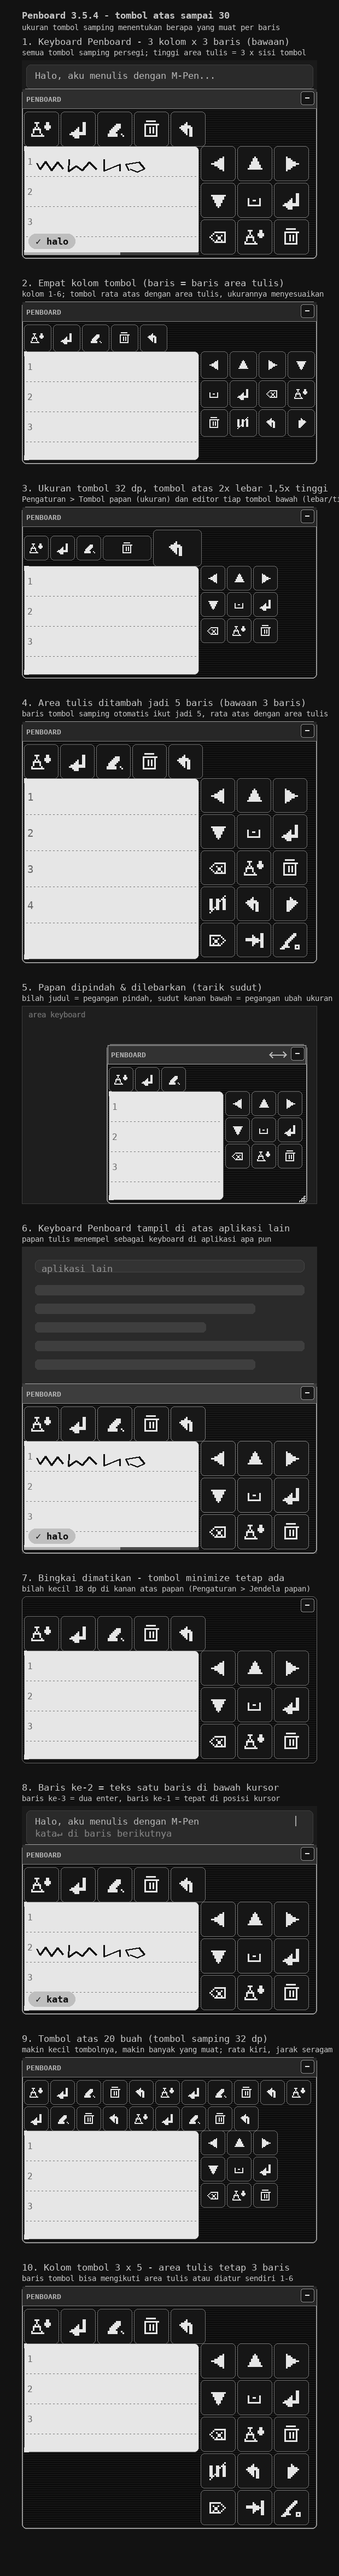
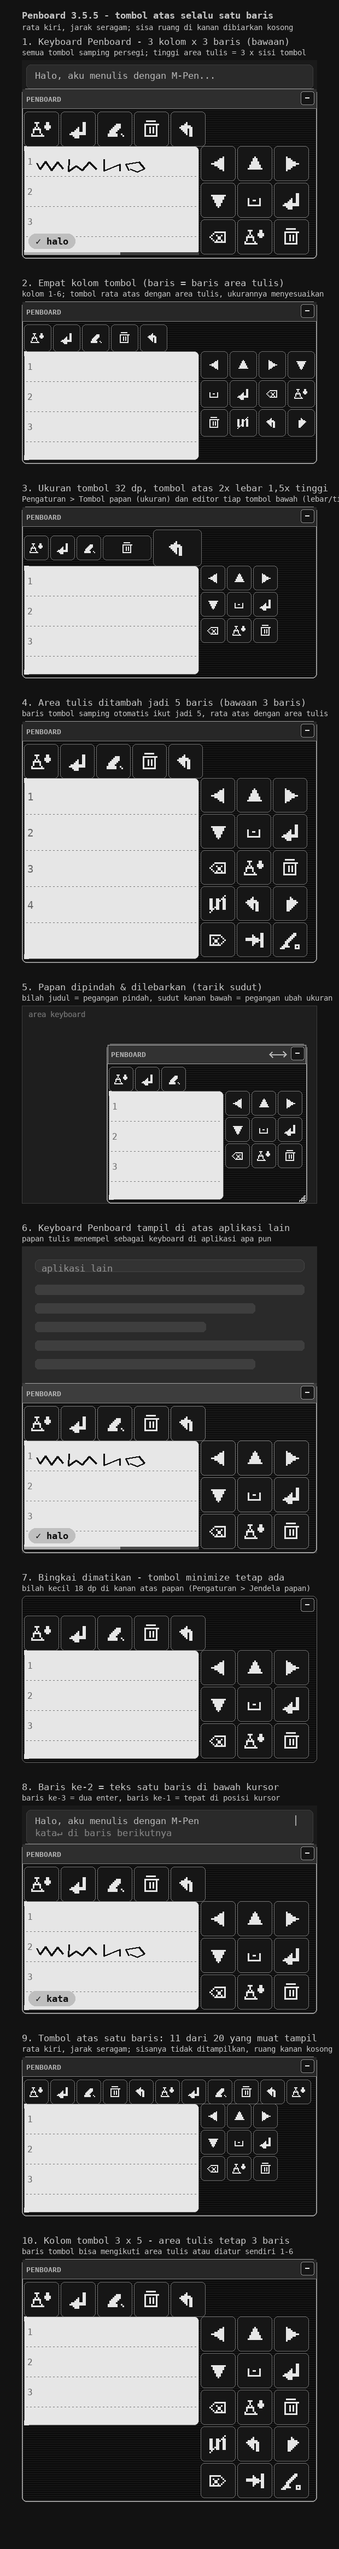
3.5.5: bilah tombol atas selalu satu baris, tombol yang tidak muat tidak ditampilkan

diff --git a/app/src/test/java/dev/retrobit/penboard/util/GridMathTest.kt b/app/src/test/java/dev/retrobit/penboard/util/GridMathTest.kt
@@ -174,25 +174,27 @@ class GridMathTest {
     }
 
     @Test
-    fun `tombol bawah dibungkus sesuai lebar masing-masing`() {
-        // Lima tombol persegi 100 px + jarak 10 px: muat satu baris di papan 600 px.
+    fun `tombol atas selalu satu baris, sisanya tidak ditampilkan`() {
+        // Lima tombol persegi 100 px + jarak 10 px muat di papan 600 px.
         assertEquals(
             listOf(listOf(0, 1, 2, 3, 4)),
             GridMath.bottomRowIndexes(5, 100, List(5) { 1f }, 600, 10)
         )
-        // Papan sempit 250 px: hanya dua tombol per baris.
+        // Papan sempit 250 px: tiga tombol pertama tampil, dua sisanya tidak
+        // (tidak ada baris kedua — sisa ruang dibiarkan kosong).
         assertEquals(
-            listOf(listOf(0, 1), listOf(2, 3), listOf(4)),
+            listOf(listOf(0, 1, 2)),
             GridMath.bottomRowIndexes(5, 100, List(5) { 1f }, 250, 10)
         )
-        // Tombol berlebar 2x tidak lagi muat di baris pertama, jadi pindah baris.
+        // Tombol berlebar 2x: hanya dua yang muat, tombol ketiga tidak ditampilkan.
         assertEquals(
-            listOf(listOf(0, 1), listOf(2)),
+            listOf(listOf(0, 1)),
             GridMath.bottomRowIndexes(3, 100, listOf(1f, 1f, 2f), 250, 10)
         )
-        // Tanpa tombol: tidak ada baris sama sekali.
+        // Tanpa tombol: tidak ada baris sama sekali; selain itu selalu tepat 1 baris.
         assertEquals(0, GridMath.bottomRows(0, 100, emptyList(), 600, 10))
-        assertEquals(2, GridMath.bottomRows(4, 100, List(4) { 1f }, 250, 10))
+        assertEquals(1, GridMath.bottomRows(4, 100, List(4) { 1f }, 250, 10))
+        assertEquals(1, GridMath.bottomRows(20, 60, List(20) { 1f }, 400, 10))
     }
 
     @Test
@@ -301,17 +303,20 @@ class GridMathTest {
         assertEquals(30, PenboardConfig.BOTTOM_SLOTS)
         assertTrue(PenboardConfig.MAX_BOTTOM_KEYS > 20)
 
-        // Tombol samping 32 dp (33 px pada gambar pratinjau) di isi panel 532 px:
-        // lebih dari 10 tombol per baris, jadi 20 tombol cukup dua baris.
+        // Tombol samping 32 dp di isi panel 532 px: satu baris memuat 11 tombol,
+        // jadi dari 20 tombol yang diminta hanya 11 yang tampil (tanpa baris kedua).
         val usable = 532
         val cell = 44
         val spacing = 4
         val perRow = (usable + spacing) / (cell + spacing)
         assertTrue("hanya $perRow per baris", perRow >= 10)
         val rows = GridMath.bottomRowIndexes(20, cell, List(20) { 1f }, usable, spacing)
-        assertEquals(2, rows.size)
-        assertEquals(20, rows.sumOf { it.size })
+        assertEquals(1, rows.size)
+        assertEquals(perRow, rows.first().size)
         assertEquals(0, rows.first().first())
+
+        // Semua tombol yang tampil ada di baris yang sama dan berurutan dari kiri.
+        assertEquals((0 until perRow).toList(), rows.first())
 
         // Semua tombol bawaan benar-benar bekerja (bukan TEXT kosong).
         PenboardConfig.defaultBottomKeys().forEach { key ->

diff --git a/app/src/main/java/dev/retrobit/penboard/MainActivity.kt b/app/src/main/java/dev/retrobit/penboard/MainActivity.kt
@@ -348,6 +348,7 @@ class MainActivity : AppCompatActivity() {
         // tinggi area tulis supaya keduanya sejajar di atas maupun di bawah.
         val square = Ui.statusText(card, getString(R.string.preview_square_wait))
         val align = Ui.statusText(card, getString(R.string.preview_align_wait))
+        val bottom = Ui.statusText(card, getString(R.string.preview_bottom_wait))
         Ui.body(card, getString(R.string.preview_cell_style, store.config.iconStyle.label))
         Ui.body(
             card,
@@ -357,7 +358,7 @@ class MainActivity : AppCompatActivity() {
                 getString(R.string.preview_line_off)
             }
         )
-        panel.root.post { updatePreviewStatus(square, align, panel) }
+        panel.root.post { updatePreviewStatus(square, align, bottom, panel) }
     }
 
     /** Ubah ukuran papan dari tarikan sudut di pratinjau (lebar dan tinggi). */
@@ -401,7 +402,12 @@ class MainActivity : AppCompatActivity() {
     }
 
     /** Tampilkan hasil pengukuran pratinjau: tombol persegi & kolom tombol sejajar. */
-    private fun updatePreviewStatus(square: TextView, align: TextView, panel: BoardPanel) {
+    private fun updatePreviewStatus(
+        square: TextView,
+        align: TextView,
+        bottom: TextView,
+        panel: BoardPanel
+    ) {
         val cell = panel.cellPx
         val columns = store.config.gridColumns
         val rows = store.config.effectiveGridRows
@@ -418,6 +424,14 @@ class MainActivity : AppCompatActivity() {
             gridRows > 0 && gridRows == boardRows ->
                 getString(R.string.preview_align_ok, gridRows, boardRows)
             else -> getString(R.string.preview_align_bad, gridRows, boardRows)
+        }
+        // Bilah atas selalu satu baris: beri tahu bila ada tombol yang tidak muat.
+        val shown = panel.bottomShownCount
+        val requested = panel.bottomRequestedCount
+        bottom.text = when {
+            requested <= 0 -> getString(R.string.preview_bottom_none)
+            shown >= requested -> getString(R.string.preview_bottom_ok, shown)
+            else -> getString(R.string.preview_bottom_partial, shown, requested)
         }
     }
 
@@ -766,6 +780,7 @@ class MainActivity : AppCompatActivity() {
             PenboardConfig.MAX_BOTTOM_KEYS,
             getString(R.string.unit_keys)
         ) { value -> store.update { it.copy(bottomButtonCount = value) } }
+        Ui.body(card, getString(R.string.bottom_single_row_note))
 
         Ui.divider(card)
         // Hanya tampilkan baris yang mungkin dipakai: tombol yang aktif, atau 8 bawaan

diff --git a/app/src/main/java/dev/retrobit/penboard/util/GridMath.kt b/app/src/main/java/dev/retrobit/penboard/util/GridMath.kt
@@ -262,10 +262,11 @@ object GridMath {
     /**
      * Susunan tombol bawah: indeks tombol untuk setiap baris.
      *
-     * Lebar tiap tombol bisa berbeda ([widthMultiplier]), jadi pembungkusannya dihitung
-     * berurutan: tombol berikutnya pindah ke baris baru begitu lebar papan tulis tidak
-     * cukup lagi. Hasilnya dipakai bersama oleh penghitungan tinggi panel dan pemasangan
-     * tombol, sehingga keduanya tidak pernah berbeda (tidak ada tombol yang terpotong).
+     * Tombol atas selalu **satu baris**: tombol dipasang berurutan dari kiri, dan begitu
+     * tombol berikutnya tidak muat lagi di lebar papan, tombol itu (dan sisanya) **tidak
+     * ditampilkan**. Sisa ruang di kanan dibiarkan kosong — tidak ada pembungkusan ke
+     * baris kedua. Hasilnya dipakai bersama oleh penghitungan tinggi panel dan pemasangan
+     * tombol, jadi keduanya tidak pernah berbeda.
      */
     fun bottomRowIndexes(
         count: Int,
@@ -275,26 +276,24 @@ object GridMath {
         spacingPx: Int = 0
     ): List<List<Int>> {
         if (count <= 0) return emptyList()
-        val rows = mutableListOf<MutableList<Int>>()
-        var current = mutableListOf<Int>()
+        val visible = mutableListOf<Int>()
         var used = 0
         for (index in 0 until count) {
             val width = buttonWidthPx(cellPx, widthMultipliers.getOrElse(index) { 1f })
-            val needed = if (current.isEmpty()) width else used + spacingPx + width
-            if (current.isNotEmpty() && needed > availableWidthPx) {
-                rows.add(current)
-                current = mutableListOf()
-                used = width
-            } else {
-                used = needed
-            }
-            current.add(index)
+            val needed = if (visible.isEmpty()) width else used + spacingPx + width
+            // Tombol pertama selalu tampil (walau lebih lebar dari panel) supaya tidak
+            // ada baris yang kosong sama sekali.
+            if (visible.isNotEmpty() && needed > availableWidthPx) break
+            used = needed
+            visible.add(index)
         }
-        if (current.isNotEmpty()) rows.add(current)
-        return rows
+        return listOf(visible)
     }
 
-    /** Jumlah baris tombol bawah untuk [count] tombol dengan lebar masing-masing. */
+    /**
+     * Jumlah baris tombol atas untuk [count] tombol: 1 bila ada tombol, 0 bila tidak.
+     * (Bilah atas tidak pernah dibungkus ke baris kedua.)
+     */
     fun bottomRows(
         count: Int,
         cellPx: Int,

diff --git a/app/src/main/java/dev/retrobit/penboard/ui/BoardPanel.kt b/app/src/main/java/dev/retrobit/penboard/ui/BoardPanel.kt
@@ -91,6 +91,12 @@ class BoardPanel(private val context: Context) {
     var cellPx: Int = 0
         private set
 
+    /** Jumlah tombol atas yang diminta pengaturan, dan yang benar-benar tampil. */
+    var bottomRequestedCount: Int = 0
+        private set
+    var bottomShownCount: Int = 0
+        private set
+
     /** Ukuran papan yang sedang dipakai (px). */
     var panelWidthPx: Int = 0
         private set
@@ -302,6 +308,9 @@ class BoardPanel(private val context: Context) {
         fun layoutBottom() {
             bottomRows = GridMath.bottomRowIndexes(bottomCount, barCell(), bottomWidths, usableWidth, spacing)
             bottomRowHeights = GridMath.bottomRowHeights(bottomRows, barCell(), bottomHeightMultipliers)
+            // Bilah atas hanya satu baris: tombol yang tidak muat tidak ditampilkan.
+            bottomRequestedCount = bottomCount
+            bottomShownCount = bottomRows.firstOrNull()?.size ?: 0
         }
 
         // Dua putaran: ukuran tombol menentukan tinggi bilah bawah, dan tinggi bilah bawah

diff --git a/tools/render_preview.py b/tools/render_preview.py
@@ -221,25 +221,23 @@ def button_width_px(cell_px, width_multiplier):
 
 
 def bottom_row_indexes(count, cell_px, widths, available_width_px, spacing_px=0):
-    """Salinan GridMath.bottomRowIndexes: tombol bawah dibungkus sesuai lebarnya."""
+    """Salinan GridMath.bottomRowIndexes: tombol atas selalu SATU baris.
+
+    Tombol dipasang berurutan dari kiri; begitu tidak muat lagi, sisanya tidak
+    ditampilkan (sisa ruang di kanan dibiarkan kosong).
+    """
     if count <= 0:
         return []
-    rows = []
-    current = []
+    visible = []
     used = 0
     for index in range(count):
         width = button_width_px(cell_px, widths[index] if index < len(widths) else 1.0)
-        needed = width if not current else used + spacing_px + width
-        if current and needed > available_width_px:
-            rows.append(current)
-            current = []
-            used = width
-        else:
-            used = needed
-        current.append(index)
-    if current:
-        rows.append(current)
-    return rows
+        needed = width if not visible else used + spacing_px + width
+        if visible and needed > available_width_px:
+            break
+        used = needed
+        visible.append(index)
+    return [visible]
 
 
 def alpha(color, a):
@@ -515,7 +513,7 @@ def main():
     longer = draw_panel(5, DEFAULT_KEYS)
     ime = draw_panel(3, DEFAULT_KEYS, flash="\u2713 halo", pending=0.55)
     second_line = draw_panel(3, DEFAULT_KEYS, flash="\u2713 kata", ink_line=1)
-    # 20 tombol atas: muat karena tombol sampingnya kecil (32 dp).
+    # 20 tombol atas diminta, tetapi bilah atas hanya satu baris: yang muat 11.
     many_bottom = draw_panel(3, DEFAULT_KEYS, cell_dp=32,
                              bottom_keys=(BOTTOM_KEYS * 4)[:20])
     five_rows = draw_panel(3, DEFAULT_KEYS, rows=5)
@@ -548,8 +546,8 @@ def main():
         ("8. Baris ke-2 = teks satu baris di bawah kursor",
          "baris ke-3 = dua enter, baris ke-1 = tepat di posisi kursor",
          ("field2", second_line)),
-        ("9. Tombol atas 20 buah (tombol samping 32 dp)",
-         "makin kecil tombolnya, makin banyak yang muat; rata kiri, jarak seragam",
+        ("9. Tombol atas satu baris: 11 dari 20 yang muat tampil",
+         "rata kiri, jarak seragam; sisanya tidak ditampilkan, ruang kanan kosong",
          ("plain", many_bottom)),
         ("10. Kolom tombol 3 x 5 - area tulis tetap 3 baris",
          "baris tombol bisa mengikuti area tulis atau diatur sendiri 1-6",
@@ -569,9 +567,9 @@ def main():
             canvas_heights.append(item.height + extra)
     canvas = Image.new("RGBA", (width, sum(canvas_heights) + 40), alpha((0x12, 0x12, 0x12), 255))
     draw = ImageDraw.Draw(canvas)
-    draw.text((pad, 18), "Penboard 3.5.4 - tombol atas sampai 30",
+    draw.text((pad, 18), "Penboard 3.5.5 - tombol atas selalu satu baris",
               font=ImageFont.truetype(FONT_BOLD, 17), fill=alpha(COL_ACCENT, 255))
-    draw.text((pad, 42), "ukuran tombol samping menentukan berapa yang muat per baris",
+    draw.text((pad, 42), "rata kiri, jarak seragam; sisa ruang di kanan dibiarkan kosong",
               font=SMALL_FONT, fill=alpha(COL_ACCENT, 150))
 
     y = header

diff --git a/README.md b/README.md
@@ -2,15 +2,32 @@
 
 Papan tulis stylus bergaya **HiWrite** untuk Android, dengan tema **retro cyberpunk grayscale ePaper**. Tulis dengan Huawei M-Pen (atau stylus apa pun) di papan tulis, lalu tulisan itu berubah menjadi teks dan langsung masuk ke kolom isian aplikasi yang sedang dipakai. Bukan keyboard QWERTY: papan tulisnya lebar di kiri, tombolnya berupa **ikon** dan tersusun rapi 3 kolom di kanan.
 
-Versi terbaru: **3.5.4** (lihat [Releases](https://github.com/retrobit-dev/RetroBit-Penboard/releases) untuk berkas APK).
+Versi terbaru: **3.5.5** (lihat [Releases](https://github.com/retrobit-dev/RetroBit-Penboard/releases) untuk berkas APK).
+
+## Yang baru di 3.5.5
+
+- **Bilah tombol atas selalu satu baris.** Tombol dipasang berurutan dari kiri dengan jarak
+  yang sama seperti tombol samping; begitu tombol berikutnya tidak muat, tombol itu dan
+  sisanya **tidak ditampilkan**. Sisa ruang di kanan dibiarkan kosong — tidak ada lagi
+  pembungkusan ke baris kedua.
+- **Tidak perlu khawatir tombol kosong**: panel hanya setinggi satu baris tombol, jadi tidak
+  ada ruang terbuang. Jumlah yang muat mengikuti ukuran tombol samping dan lebar papan
+  (`GridMath.bottomRowIndexes`, diuji unit).
+- **Kartu pratinjau memberi tahu bila ada yang tidak muat**: *"⚠ Tombol atas satu baris: 11
+  dari 20 tombol tampil; sisanya tidak muat."* Kalau semuanya muat: *"✓ Tombol atas: 5 tombol
+  dalam satu baris."*
+- Solusi bila tombol terpotong: kurangi jumlah tombol atas, kecilkan ukuran tombol samping,
+  atau lebarkan papan (*Lebar papan*).
+- Pratinjau `docs/preview.png` contoh ke-9 menampilkan **11 dari 20 tombol** dalam satu baris.
 
 ## Yang baru di 3.5.4
 
 - **Batas tombol atas 5 → 30.** Batas 5 terlalu ketat: ukuran tombol atas mengikuti tombol
   samping, jadi dengan tombol samping **32 dp** satu baris papan bisa memuat **sekitar 10
   tombol** — 20 tombol cukup dua baris. Dengan tombol 96 dp hanya sekitar 3 per baris.
-- **Jumlah yang muat dihitung dari geometri**, bukan angka tetap: baris dibungkus dengan
-  jarak yang sama seperti tombol samping (`GridMath.bottomRowIndexes`), tetap **rata kiri**.
+- **Jumlah yang muat dihitung dari geometri**, bukan angka tetap: satu baris diisi dari kiri
+  dengan jarak yang sama seperti tombol samping (`GridMath.bottomRowIndexes`); di 3.5.5 sisa
+  tombol yang tidak muat tidak ditampilkan (tidak lagi dibungkus ke baris kedua).
 - **Bawaan bilah atas kembali 8 aksi** (A+, enter, hapus goresan, bersihkan papan, batal,
   ulangi, ganti warna, sembunyikan) supaya slot ke-6–30 tidak kosong; slot di atasnya memakai
   daftar itu secara bergiliran.
@@ -317,11 +334,12 @@ dilewati. Bisa dimatikan di pengaturan papan.
 
 Bilah judul berisi judul jendela + tombol minimize, dan dipakai sebagai **pegangan untuk
 memindahkan papan**. **Tombol atas** berada di dalam bingkai yang sama, **di atas area
-menulis** (tepat di bawah bilah judul), sampai **30 tombol**; tombolnya **rata kiri** dengan
-jarak yang sama seperti tombol samping (tidak dilebarkan memenuhi papan) dan ukuran dasarnya
-mengikuti tombol samping — jadi makin kecil tombol samping, makin banyak yang muat per baris —
-tetapi **lebar dan tinggi tiap tombol bisa diatur sendiri**; isinya bebas diatur (lihat
-**Pengaturan yang tersedia**).
+menulis** (tepat di bawah bilah judul), dalam **satu baris** (sampai **30 tombol** diminta);
+tombolnya **rata kiri** dengan jarak yang sama seperti tombol samping (tidak dilebarkan
+memenuhi papan) dan ukuran dasarnya mengikuti tombol samping — jadi makin kecil tombol
+samping, makin banyak yang muat. Tombol yang tidak muat **tidak ditampilkan**, dan sisa ruang
+di kanan dibiarkan kosong. **Lebar dan tinggi tiap tombol bisa diatur sendiri**; isinya bebas
+diatur (lihat **Pengaturan yang tersedia**).
 
 Tinggi papan menyesuaikan ruang yang disediakan keyboard: kalau layar tidak cukup untuk
 bingkai + bilah judul + tombol bawah + semua baris tulisan, **jarak baris dan ukuran tombol
@@ -378,7 +396,7 @@ punya polanya sendiri) — bawaan sejak 3.2.0. Bila ingin ikon bergaris halus se
 | Tampilan | **tema retro cyberpunk grayscale ePaper** (satu tombol), garis pindaian, **gaya ikon tombol (pixel art / vektor)**, transparansi panel/papan/tombol 0–100%, warna panel/papan/garis/tombol/teks tombol/aksen, lengkung sudut |
 | Tombol samping pena | aksi klik dan aksi kedua, dari 7 pilihan |
 | Jendela papan | bingkai jendela on/off, tombol minimize on/off (tetap ada sebagai bilah kecil bila bingkainya dimatikan), judul jendela (bawaan `PENBOARD`), **papan bisa dipindah / diangkat** (tarik bilah judul), **lebar papan 45–100 %** (atau tarik sudut kanan bawah), **lebar area tulis 40–80 %** |
-| Tombol atas | tampil/tidak, **jumlah 0–30**, **rata kiri dengan jarak sama seperti tombol samping** (jumlah yang muat mengikuti ukuran tombol samping), aksi + label + tahan-untuk-mengulang + **lebar 0,6x–4x** dan **tinggi 0,6x–2x** tiap tombol (dasar = ukuran tombol samping, letaknya di dalam bingkai **di atas** area menulis), kembali ke bawaan |
+| Tombol atas | tampil/tidak, **jumlah 0–30**, **satu baris**, **rata kiri dengan jarak sama seperti tombol samping** (yang tidak muat tidak ditampilkan), aksi + label + tahan-untuk-mengulang + **lebar 0,6x–4x** dan **tinggi 0,6x–2x** tiap tombol (dasar = ukuran tombol samping, letaknya di dalam bingkai **di atas** area menulis), kembali ke bawaan |
 
 Tombol panah kursor, papan klip, tab, dan hapus di depan kursor bekerja saat keyboard Penboard aktif — semuanya memerlukan kolom isian.
 
